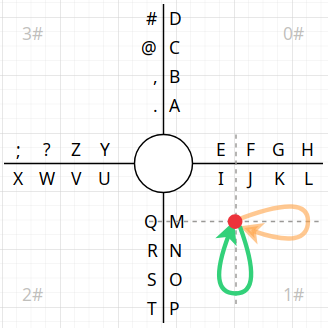
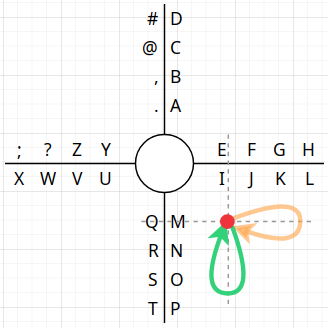
Docs: 更新《十字型输入的交互设计》

diff --git a/docs/design/cross-mode.md b/docs/design/cross-mode.md
@@ -300,11 +300,16 @@ m |20| m, ma,mai,man,mao,mang, me,mei,men,meng, mi,mie,min,miu,mian,miao,ming, m
 
 ### 键盘切换与输入补全选择
 
+![](./cross-mode/60-switch-lantin-to-pinyin.png)
+
 - 如何自然地切换到数字、算术等输入键盘？
   - 在轨迹原点画圈，类似于拨动旋钮，根据画圈的数量来循环切换不同的输入
     - 模拟阻尼滚轮拨动
     - 顺时针拨动为向前切换，逆时针拨动为向后切换
   - 符号、表情等，仅放置常用的，更多的选择，需点击切换按键再做选择
+
+![](./cross-mode/60-select-lantin-completion.png)
+
 - 英文补全内容（输入补全）、拼音高频字（候选字）均以气泡形式展示在键盘上方并自带序号
   - 如何在输入过程中，通过滑屏手势平滑地根据序号选中输入补全或候选字？
   - 也可以不选择，所以，不能干扰正常的字符输入过程，避免在输入间隙强制插入「输入选择」过程
